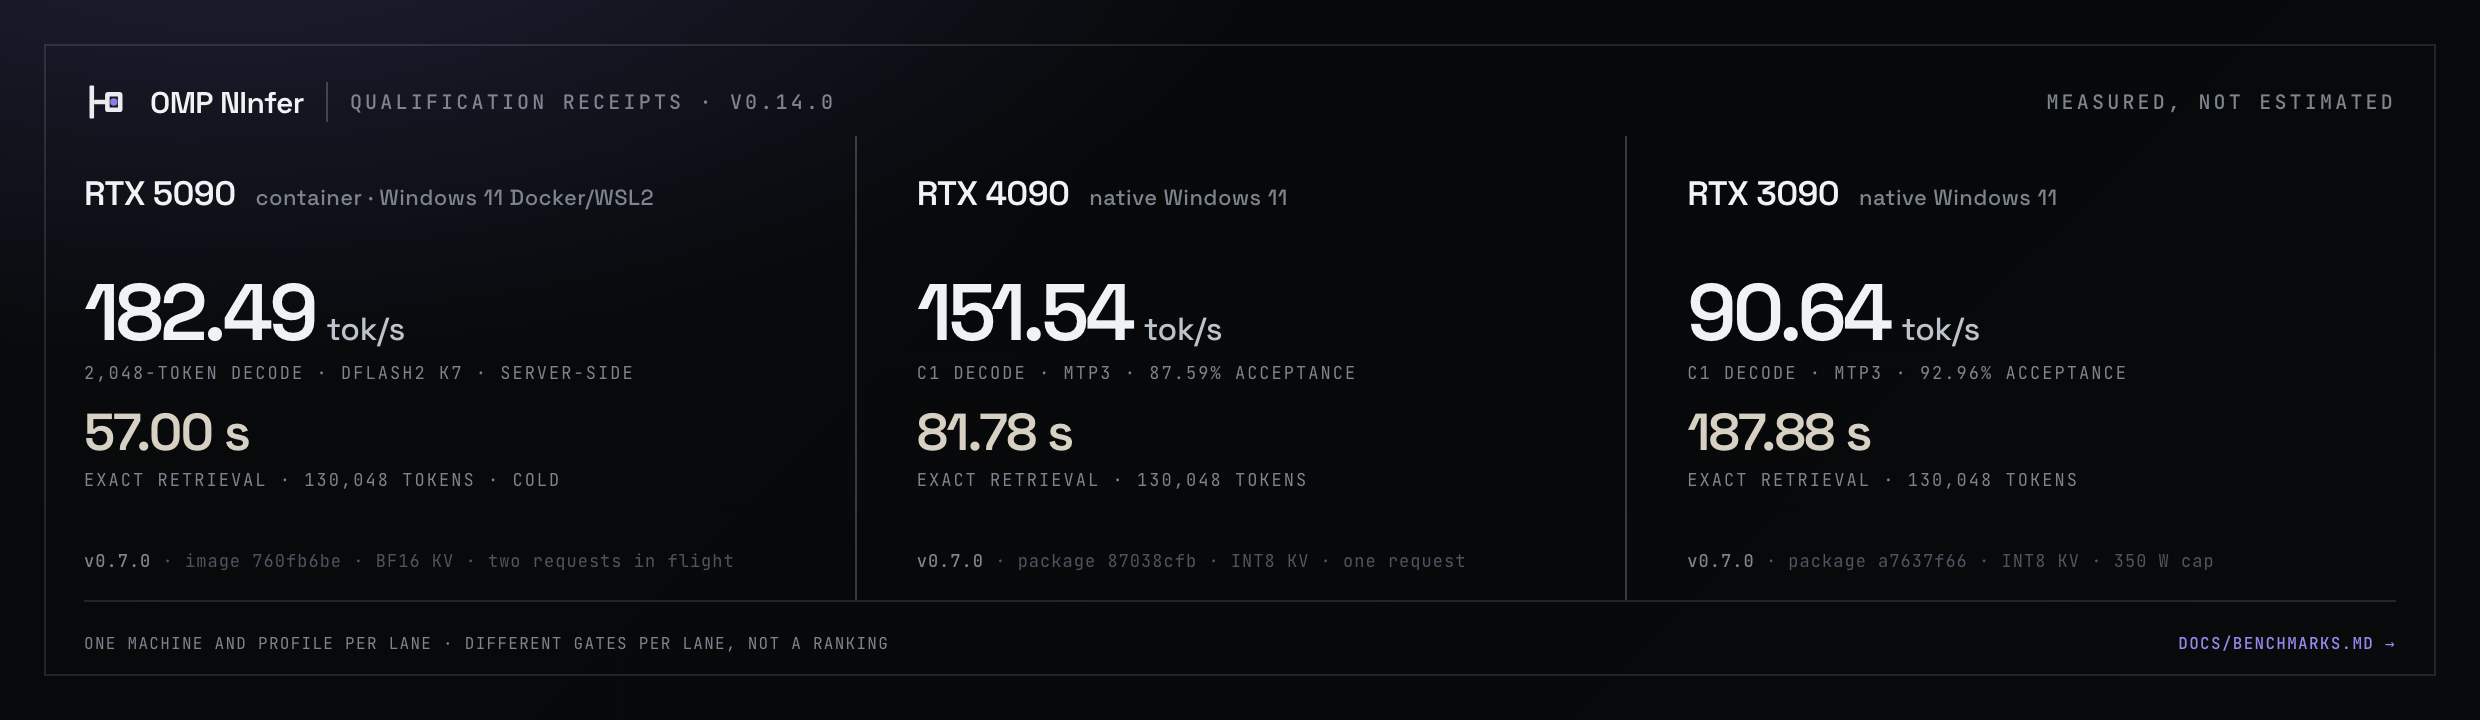
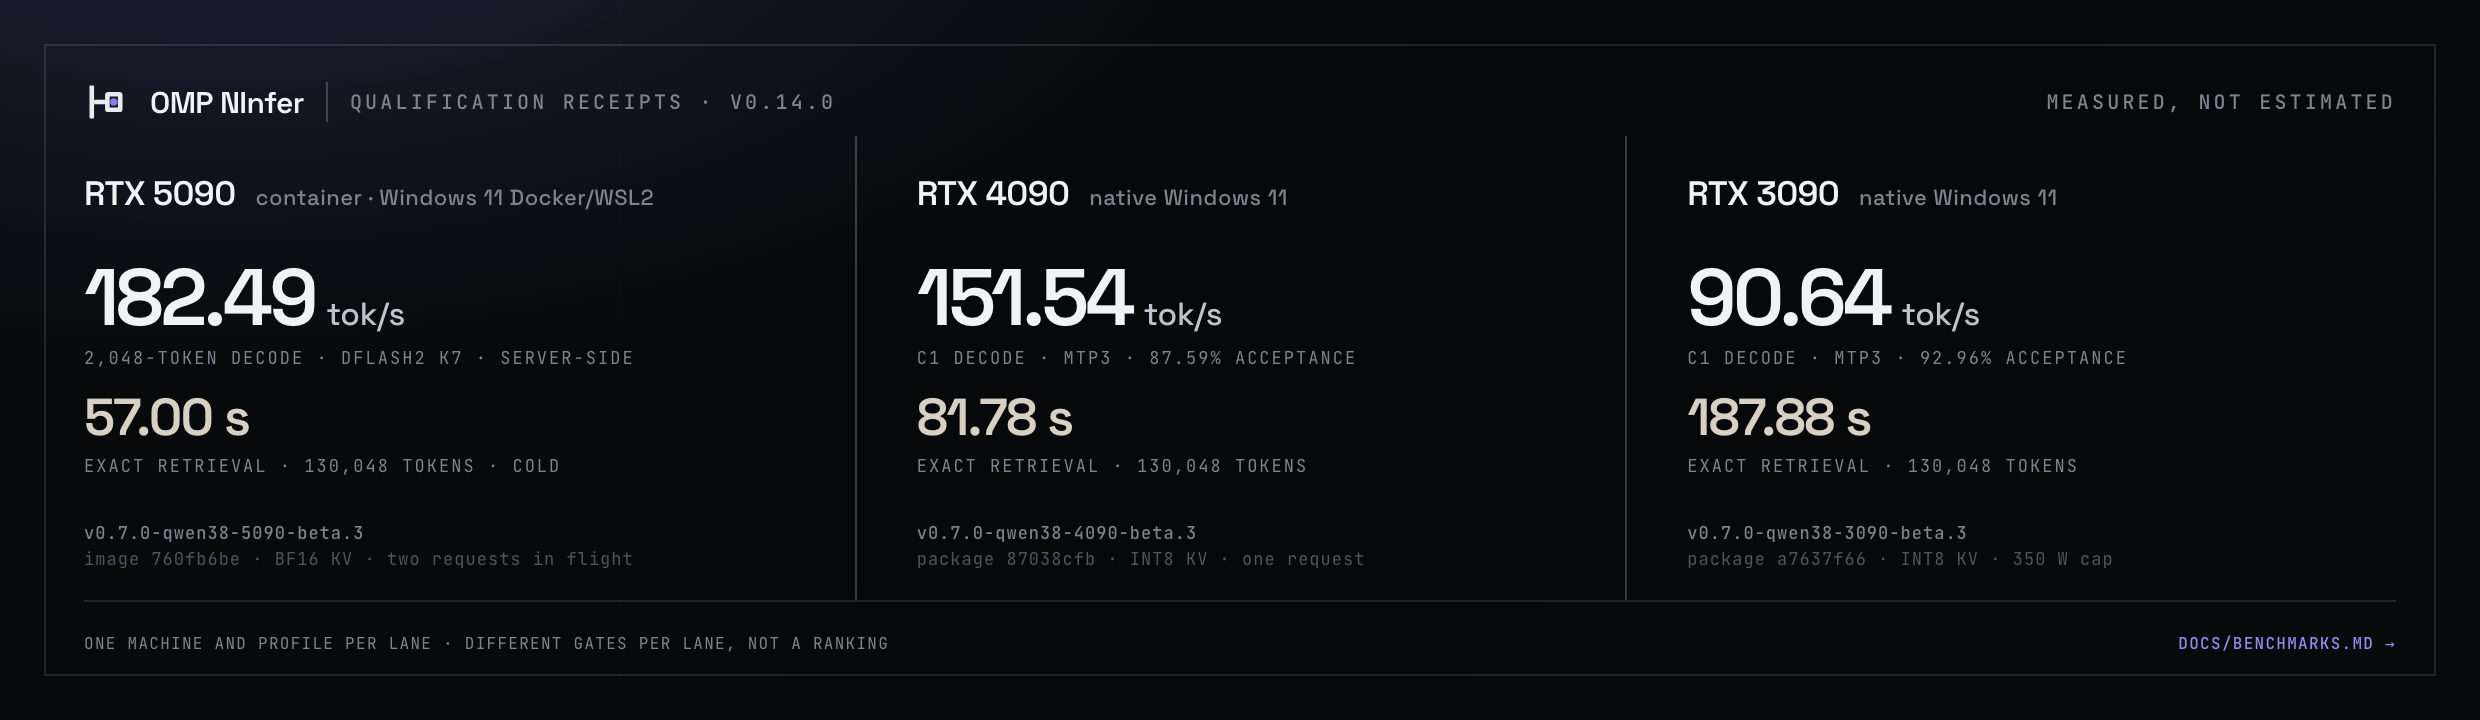
docs(assets): name full runtime component tags in the benchmarks strip

diff --git a/assets/benchmarks.html b/assets/benchmarks.html
@@ -20,8 +20,8 @@
   .metric strong em { font-style: normal; font-size: 16px; letter-spacing: -.01em; color: var(--body); margin-left: 6px; font-weight: 500; }
   .metric.secondary strong { font-size: 26px; letter-spacing: -.035em; color: var(--warm); }
   .metric span { display: block; margin-top: 6px; color: var(--muted); font-family: "JetBrains Mono", monospace; font-size: 8.5px; letter-spacing: .12em; text-transform: uppercase; }
-  .id { color: var(--quiet); font-family: "JetBrains Mono", monospace; font-size: 8.5px; letter-spacing: .06em; }
-  .id b { color: var(--muted); font-weight: 500; }
+  .id { color: var(--quiet); font-family: "JetBrains Mono", monospace; font-size: 8.5px; letter-spacing: .06em; line-height: 1.5; }
+  .id b { display: block; color: var(--muted); font-weight: 500; }
   .foot { border-top: 1px solid var(--line); padding-top: 12px; color: var(--muted); font-family: "JetBrains Mono", monospace; font-size: 8px; letter-spacing: .08em; text-transform: uppercase; }
   .foot strong { color: var(--local); font-weight: 500; }
 </style>
@@ -39,7 +39,7 @@
         <div class="metric"><strong>182.49<em>tok/s</em></strong><span>2,048-token decode · DFlash2 K7 · server-side</span></div>
         <div class="metric secondary"><strong>57.00 s</strong><span>exact retrieval · 130,048 tokens · cold</span></div>
       </div>
-      <div class="id"><b>v0.7.0</b> · image 760fb6be · BF16 KV · two requests in flight</div>
+      <div class="id"><b>v0.7.0-qwen38-5090-beta.3</b>image 760fb6be · BF16 KV · two requests in flight</div>
     </section>
     <section class="lane">
       <div class="title"><b>RTX 4090</b><span>native Windows 11</span></div>
@@ -47,7 +47,7 @@
         <div class="metric"><strong>151.54<em>tok/s</em></strong><span>C1 decode · MTP3 · 87.59% acceptance</span></div>
         <div class="metric secondary"><strong>81.78 s</strong><span>exact retrieval · 130,048 tokens</span></div>
       </div>
-      <div class="id"><b>v0.7.0</b> · package 87038cfb · INT8 KV · one request</div>
+      <div class="id"><b>v0.7.0-qwen38-4090-beta.3</b>package 87038cfb · INT8 KV · one request</div>
     </section>
     <section class="lane">
       <div class="title"><b>RTX 3090</b><span>native Windows 11</span></div>
@@ -55,7 +55,7 @@
         <div class="metric"><strong>90.64<em>tok/s</em></strong><span>C1 decode · MTP3 · 92.96% acceptance</span></div>
         <div class="metric secondary"><strong>187.88 s</strong><span>exact retrieval · 130,048 tokens</span></div>
       </div>
-      <div class="id"><b>v0.7.0</b> · package a7637f66 · INT8 KV · 350 W cap</div>
+      <div class="id"><b>v0.7.0-qwen38-3090-beta.3</b>package a7637f66 · INT8 KV · 350 W cap</div>
     </section>
   </div>
   <div class="foot"><span>One machine and profile per lane · different gates per lane, not a ranking</span><strong>docs/BENCHMARKS.md →</strong></div>
